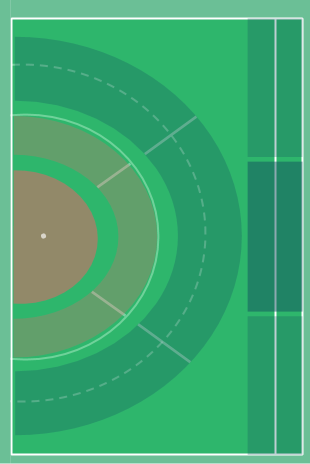
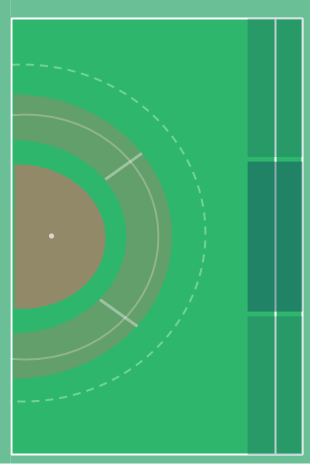
removing e* stats

diff --git a/frontend/src/pages/stat/create/AreaZone.js b/frontend/src/pages/stat/create/AreaZone.js
@@ -5,53 +5,76 @@ import {
   IonGrid, IonRow, IonCol
 } from '@ionic/react';
 
+
+const areaStatType = {
+  'eyrd': 'entry-25',
+  'earea': 'entry-area',
+  'sht': 'inner',
+  'pc': 'inner',
+  'g': 'inner',
+  'ps': 'inner',
+}
+
 class AreaZone extends Component {
+
+  validateAndDispatch(value) {
+    if (this.props.statType === 'eyrd' && ['yr', 'yc', 'yl'].indexOf(value) !== -1) {
+      this.props.selectZone(value)
+    } else if (this.props.statType === 'earea' && ['ar', 'ac', 'al'].indexOf(value) !== -1) {
+      this.props.selectZone(value)
+    } else if (['sht', 'pc', 'g', 'ps'].indexOf(this.props.statType) !== -1 && ['ar', 'ac', 'al', 'a0'].indexOf(value) !== -1) {
+      this.props.selectZone(value)
+    } else {
+      console.error(this.props.statType, value)
+    }
+    return;
+  }
 
   render() {
     return (
       <>
-        <IonGrid class="area" fixed={true} >
+        <IonGrid class={`area ${areaStatType[this.props.statType]}`} fixed={true} >
           <IonRow>
-            <IonCol onClick={this.props.selectZone.bind(this, 'er')}/>
-            <IonCol onClick={this.props.selectZone.bind(this, 'er')} />
-            <IonCol onClick={this.props.selectZone.bind(this, 'er')} />
-            <IonCol onClick={this.props.selectZone.bind(this, 'er')} />
-            <IonCol onClick={this.props.selectZone.bind(this, 'yr')} />
+            <IonCol onClick={this.validateAndDispatch.bind(this, 'ar')}/>
+            <IonCol onClick={this.validateAndDispatch.bind(this, 'ar')}/>
+            <IonCol />
+            <IonCol />
+            <IonCol onClick={this.validateAndDispatch.bind(this, 'yr')} />
           </IonRow>
           <IonRow>
-            <IonCol onClick={this.props.selectZone.bind(this, 'ar')} />
-            <IonCol onClick={this.props.selectZone.bind(this, 'ar')} />
-            <IonCol offset="1" onClick={this.props.selectZone.bind(this, 'er')} />
-            <IonCol onClick={this.props.selectZone.bind(this, 'er')} />
-            <IonCol onClick={this.props.selectZone.bind(this, 'yr')} />
+            <IonCol onClick={this.validateAndDispatch.bind(this, 'ar')} />
+            <IonCol onClick={this.validateAndDispatch.bind(this, 'ar')} />
+            <IonCol offset="1" />
+            <IonCol />
+            <IonCol onClick={this.validateAndDispatch.bind(this, 'yr')} />
           </IonRow>
           <IonRow>
-            <IonCol onClick={this.props.selectZone.bind(this, 'a0')} />
-            <IonCol offset="-1" onClick={this.props.selectZone.bind(this, 'a0')} />
-            <IonCol onClick={this.props.selectZone.bind(this, 'ac')} />
-            <IonCol onClick={this.props.selectZone.bind(this, 'ec')} />
-            <IonCol onClick={this.props.selectZone.bind(this, 'yc')} />
+            <IonCol onClick={this.validateAndDispatch.bind(this, 'a0')} />
+            <IonCol offset="-1" onClick={this.validateAndDispatch.bind(this, 'a0')} />
+            <IonCol onClick={this.validateAndDispatch.bind(this, 'ac')} />
+            <IonCol />
+            <IonCol onClick={this.validateAndDispatch.bind(this, 'yc')} />
           </IonRow>
           <IonRow>
-          <IonCol onClick={this.props.selectZone.bind(this, 'a0')} />
-            <IonCol offset="-1" onClick={this.props.selectZone.bind(this, 'a0')} />
-            <IonCol onClick={this.props.selectZone.bind(this, 'ac')} />
-            <IonCol onClick={this.props.selectZone.bind(this, 'ec')} />
-            <IonCol onClick={this.props.selectZone.bind(this, 'yc')} />
+            <IonCol onClick={this.validateAndDispatch.bind(this, 'a0')} />
+            <IonCol offset="-1" onClick={this.validateAndDispatch.bind(this, 'a0')} />
+            <IonCol onClick={this.validateAndDispatch.bind(this, 'ac')} />
+            <IonCol />
+            <IonCol onClick={this.validateAndDispatch.bind(this, 'yc')} />
           </IonRow>
           <IonRow>
-            <IonCol onClick={this.props.selectZone.bind(this, 'al')} />
-            <IonCol onClick={this.props.selectZone.bind(this, 'al')} />
-            <IonCol offset="1" onClick={this.props.selectZone.bind(this, 'el')} />
-            <IonCol onClick={this.props.selectZone.bind(this, 'el')} />
-            <IonCol onClick={this.props.selectZone.bind(this, 'yl')} />
+            <IonCol onClick={this.validateAndDispatch.bind(this, 'al')} />
+            <IonCol onClick={this.validateAndDispatch.bind(this, 'al')} />
+            <IonCol offset="1" />
+            <IonCol />
+            <IonCol onClick={this.validateAndDispatch.bind(this, 'yl')} />
           </IonRow>
           <IonRow>
-            <IonCol onClick={this.props.selectZone.bind(this, 'el')}/>
-            <IonCol onClick={this.props.selectZone.bind(this, 'el')} />
-            <IonCol onClick={this.props.selectZone.bind(this, 'el')} />
-            <IonCol onClick={this.props.selectZone.bind(this, 'el')} />
-            <IonCol onClick={this.props.selectZone.bind(this, 'yl')} />
+            <IonCol onClick={this.validateAndDispatch.bind(this, 'al')}/>
+            <IonCol onClick={this.validateAndDispatch.bind(this, 'al')}/>
+            <IonCol />
+            <IonCol />
+            <IonCol onClick={this.validateAndDispatch.bind(this, 'yl')} />
           </IonRow>
         </IonGrid>
       </>
@@ -60,6 +83,7 @@ class AreaZone extends Component {
 }
 
 AreaZone.propTypes = {
+  statType: PropTypes.string.isRequired,
   selectZone: PropTypes.func.isRequired
 }
 

diff --git a/frontend/src/pages/stat/create/StatCreate.js b/frontend/src/pages/stat/create/StatCreate.js
@@ -199,7 +199,7 @@ class StatCreate extends Component {
         {this.state.renderStatType ? <StatType value={this.state.quarter} selectType={this.selectType} selectQuarter={this.selectQuarter} /> : <> </>}
         {this.state.renderStatZoneField ? <FieldZone rotateField={this.state.rotateField} selectZone={this.selectZone} /> : <> </>}
         {this.state.renderStatZoneGoal ? <GoalZone selectSubZone={this.selectSubZone} /> : <> </>}
-        {this.state.renderStatZoneArea ? <AreaZone selectZone={this.selectZone} /> : <> </>}
+        {this.state.renderStatZoneArea ? <AreaZone selectZone={this.selectZone} statType={this.state.statType} /> : <> </>}
         {this.state.renderStatPlayer ? <StatPlayer selectPlayer={this.selectPlayer} playerList={this.props.playerList} /> : <> </>}
         <IonLoading isOpen={this.state.showLoading} message={'Por favor espere...'} />
         <IonToast color="success" isOpen={this.state.showToast} onDidDismiss={() => { this.setState({ showToast: false }) }} message="La estadística se creo exitosamente" duration={2000} />

diff --git a/frontend/src/styles/_gridsTablet.scss b/frontend/src/styles/_gridsTablet.scss
@@ -91,8 +91,18 @@
             }
         }
         &.area {
-            background: url('/assets/area.png') no-repeat center;     
-            background-size: cover;
+            &.inner {
+                background: url('/assets/area-inner.png') no-repeat center;     
+                background-size: cover;
+            }
+            &.entry-area {
+                background: url('/assets/area-entry-area.png') no-repeat center;     
+                background-size: cover;
+            }
+            &.entry-25 {
+                background: url('/assets/area-entry-25.png') no-repeat center;     
+                background-size: cover;
+            }
     
             ion-row {
                 height: 17.1%;
@@ -112,6 +122,7 @@
             }
     
             ion-col {
+                border: solid 1px;
                 height: 100%;           
                 margin: 2% 0;
                 text-align: center;

diff --git a/frontend/src/styles/_gridsMobile.scss b/frontend/src/styles/_gridsMobile.scss
@@ -62,8 +62,18 @@
             }
         }
         &.area {
-            background: url('/assets/area.png') no-repeat center;     
-            background-size: cover;
+            &.inner {
+                background: url('/assets/area-inner.png') no-repeat center;     
+                background-size: cover;
+            }
+            &.entry-area {
+                background: url('/assets/area-entry-area.png') no-repeat center;     
+                background-size: cover;
+            }
+            &.entry-25 {
+                background: url('/assets/area-entry-25.png') no-repeat center;     
+                background-size: cover;
+            }
     
             ion-col {
                 height: 5.2rem;           

diff --git a/frontend/src/styles/_gridsDesktop.scss b/frontend/src/styles/_gridsDesktop.scss
@@ -1,3 +1,5 @@
+//Deprecated
+
 @media screen and (min-width: 1025px) {
     ion-grid {
         max-width: 30rem;
